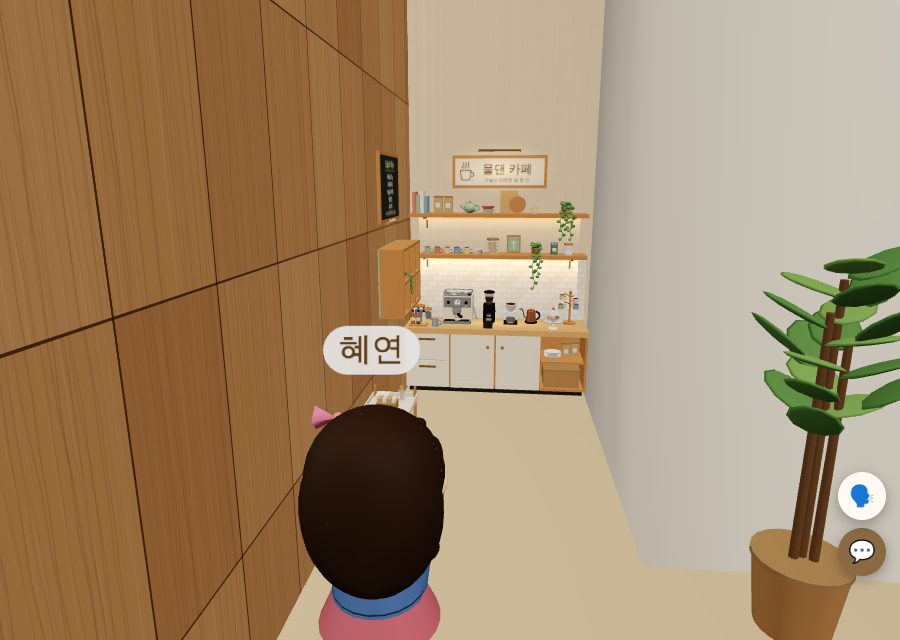
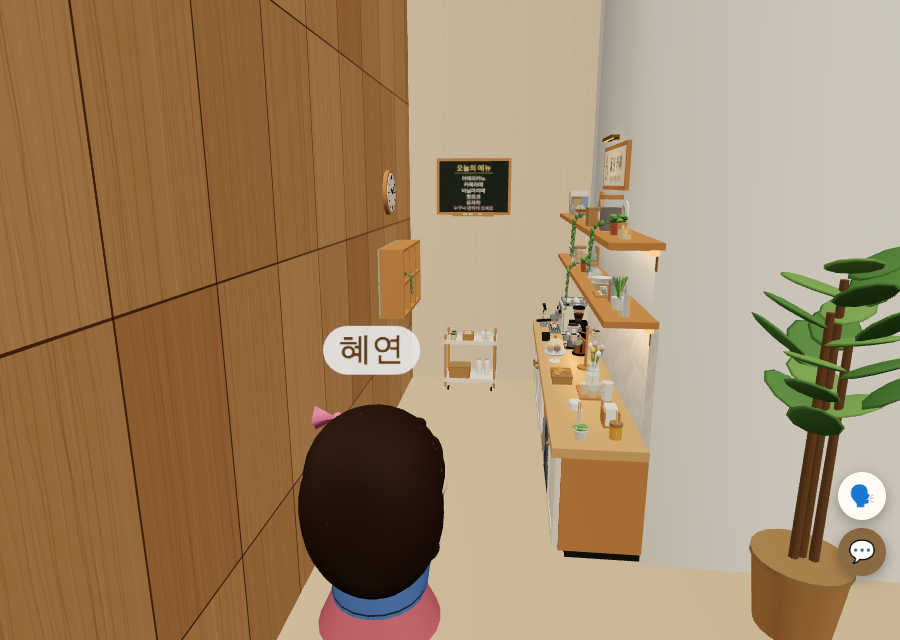
홈카페를 구석 북쪽 벽에서 오른쪽 하얀 벽(돌기둥 서쪽 면 2.2m)으로 옮겨 채움: 냉장고·셀프 바·선반 소품 더함, 기둥 옆 틈 막음, 메뉴판·카트는 북쪽 벽 끝, 서쪽 벽에 벽시계
Claude-Session: https://claude.ai/code/session_01Vz1QJf3UdmpjXu7m5EnhFF

Changed region(s): [[0.4044, 0.0, 0.7467, 0.875]]

diff --git a/index.html b/index.html
@@ -2172,14 +2172,17 @@
         [-0.35, 0.35].forEach((dz) => { groupChair(-1.25 - 0.44, -13.0 + dz, +1, f4, F4_Y); groupChair(-1.25 + 0.44, -13.0 + dz, -1, f4, F4_Y); });   // 식탁 가장자리(0.3)에서 0.14 띄움
         groupDecor(-1.25, -13.0, null, f4, F4_Y);
         k.sign('그룹실', -1.4, F4_IN_S + 0.06, 0, 2.4);
-        // ---- 홈카페 구석 (사용자 요청: 빈 구석을 따뜻하게, 홈카페장·커피 머신·컵으로 자세히) ----
+        // ---- 홈카페 (사용자 요청: 빈 곳을 따뜻하게, 홈카페장·커피 머신·컵으로 자세히 → "구석 말고 오른쪽 하얀 벽(②)을 채워서") ----
         // 자리: 서쪽 원목 벽(x -2.35) · 북쪽 벽(z -17.32) · 북동 돌기둥 서쪽 면(x -1.04) 사이 구석 (남쪽 끝 z -15.1)
-        // 북쪽 벽: 크림색 문짝 + 원목 상판 홈카페장, 흰 타일 벽, 원목 선반 2단, 선반 아래 따뜻한 조명줄, '물댄 카페' 나무 간판
-        //   상판 위: 원두 병 · 시럽 병 · 우유 피처 · 에스프레소 머신 · 원두 그라인더 · 드립(저울·서버·드리퍼) · 구리 주전자 · 유리 돔 머핀 · 머그 나무
-        // 서쪽 벽: 칠판 메뉴판 + 작은 컵 진열장, 아래 2단 카트 / 기둥 남쪽 창가: 큰 화분
+        // 돌기둥 서쪽 면(②, 길이 2.2m): 크림색 서랍·문 + 열린 칸 + 유리문 작은 냉장고, 원목 상판, 흰 타일 벽, 원목 선반 2단, 조명줄, '물댄 카페' 간판
+        //   상판 위(북→남): 원두 병 · 시럽 병 · 우유 피처 · 에스프레소 머신 · 그라인더 · 핸드드립 · 구리 주전자 · 유리 돔 머핀 · 머그 나무
+        //                  · 셀프 바(꽃병 · 빵 바구니 · 물병과 유리컵 · 테이크아웃 컵 · 냅킨 · 꿀단지 · 다육 화분)
+        // 북쪽 벽 끝: 칠판 메뉴판 + 2단 카트 / 서쪽 벽: 둥근 벽시계 + 작은 컵 진열장 / 기둥 남쪽 창가: 큰 화분
+        // 카페장은 '가상 자리'(북쪽 벽에 붙였을 때: 왼쪽 끝 x0, 뒤 z ZN)로 적고, 통째로 90° 돌려 ②번 벽에 붙임 (RW)
+        //   가상 +x(오른쪽) → 실제 +z(남쪽), 가상 +z(앞) → 실제 -x(서쪽). 실제 북쪽 끝 z -17.315 ~ 남쪽 끝 -15.105, 뒤는 기둥 면에서 1.2cm 띄움(타일이 기둥 면에 묻히지 않게)
         // 작은 조각은 재질별로 합쳐 한 덩어리(가볍게), 걷기는 보이지 않는 상자로만 막음
         {
-          const CB = new Map(), cput = (geo, m, x, y, z) => { geo.translate(x, F4_Y + y, z); if (!CB.has(m)) CB.set(m, []); CB.get(m).push(geo); };
+          let R = null; const CB = new Map(), cput = (geo, m, x, y, z) => { geo.translate(x, F4_Y + y, z); if (R) geo.applyMatrix4(R); if (!CB.has(m)) CB.set(m, []); CB.get(m).push(geo); };
           const cb = (w, h, d, x, y0, z, m, ry) => { const g = new THREE.BoxGeometry(w, h, d); if (ry) g.rotateY(ry); cput(g, m, x, y0 + h / 2, z); };
           const cy = (rt, rb, h, x, y0, z, m, seg) => cput(new THREE.CylinderGeometry(rt, rb, h, seg || 16), m, x, y0 + h / 2, z);
           const csp = (r, x, y, z, m, sx, sy, sz) => cput(new THREE.SphereGeometry(r, 12, 9).scale(sx || 1, sy || 1, sz || 1), m, x, y, z);
@@ -2192,28 +2195,51 @@
           const lit = new THREE.MeshBasicMaterial({ color: 0xffc56b, toneMapped: false });
           const hidden = new THREE.MeshBasicMaterial({ colorWrite: false, depthWrite: false });
           const block = (w, d, h, x, z) => { const m = k.box(w, h, d, x, 0, z, hidden); m.castShadow = m.receiveShadow = false; m.userData.noCamBlock = true; };   // 걷기만 막는 보이지 않는 상자
-          const XW = -2.35, XE = -1.04, ZN = -17.32, x0 = XW + 0.005, x1 = XE - 0.005, W = x1 - x0, xc = (x0 + x1) / 2, D = 0.36, T = 0.5, sw = W / 4;
+          const XW = -2.35, XE = -1.04, ZN = -17.32, x0 = XW + 0.005, W = 2.21, x1 = x0 + W, xc = (x0 + x1) / 2, D = 0.36, T = 0.5, sw = W / 6;
+          const RW = new THREE.Matrix4().makeTranslation(XE - 0.012, 0, ZN + 0.005).multiply(new THREE.Matrix4().makeRotationY(-Math.PI / 2)).multiply(new THREE.Matrix4().makeTranslation(-x0, 0, -ZN));
+          const cg = new THREE.Group(); cg.matrixAutoUpdate = false; cg.matrix.copy(RW); f4.add(cg);   // 판·빛처럼 따로 된 것은 이 묶음에 가상 자리로 넣으면 같이 돌아감
           const mug = (x, y, z, m, hy) => { cy(0.022, 0.02, 0.045, x, y, z, m); cy(0.0185, 0.0185, 0.002, x, y + 0.045, z, inside); ring(0.012, 0.004, x + (hy ? 0 : 0.027), y + 0.023, z + (hy ? 0.027 : 0), m, hy ? Math.PI / 2 : 0); };
-          // 1) 아래장: 걸레받이 · 몸통 · 서랍 2 · 문 2(테두리 있는 크림색 문 + 놋쇠 손잡이) · 오른쪽 열린 칸(바구니·접시·원두 봉지)
-          block(W, D + 0.02, T, xc, ZN + (D + 0.02) / 2);
+          // 1) 아래장 6칸(북→남): 서랍 2 · 문 · 문 · 열린 칸(바구니·접시·원두 봉지) · 유리문 냉장고 · 문. 테두리 있는 크림색 문 + 놋쇠 손잡이
+          block(D + 0.03, W, T, XE - (D + 0.03) / 2, ZN + 0.005 + W / 2);
+          k.box(0.02, 3.15, 0.22, XE + 0.01, 0, -17.21, k.M(0xe6e3db, 0.86));   // 돌기둥 북쪽 끝과 북쪽 벽 사이 틈(22cm)을 같은 색 벽으로 막음
+          R = RW;
           cb(W - 0.04, 0.05, D - 0.06, xc, 0, ZN + (D - 0.06) / 2, dark);
-          cb(3 * sw, T - 0.09, 0.33, x0 + 1.5 * sw, 0.05, ZN + 0.165, oak);
+          cb(3 * sw, T - 0.09, 0.33, x0 + 1.5 * sw, 0.05, ZN + 0.165, oak); cb(sw, T - 0.09, 0.33, x0 + 5.5 * sw, 0.05, ZN + 0.165, oak);
           const zD = ZN + 0.339;
           [0, 1].forEach((j) => { cb(sw - 0.012, 0.197, 0.018, x0 + 0.5 * sw, 0.055 + j * 0.205, zD, cream); cb(0.12, 0.012, 0.014, x0 + 0.5 * sw, 0.055 + j * 0.205 + 0.15, zD + 0.015, brass); });
-          [1, 2].forEach((i) => {
+          [[1, 1], [2, -1], [5, -1]].forEach(([i, ks]) => {
             const xs = x0 + (i + 0.5) * sw, dw = sw - 0.012;
             cb(dw, 0.402, 0.018, xs, 0.055, zD, cream);
             cb(dw, 0.04, 0.006, xs, 0.055, zD + 0.012, cream); cb(dw, 0.04, 0.006, xs, 0.417, zD + 0.012, cream);
             [-1, 1].forEach((sd) => cb(0.04, 0.402, 0.006, xs + sd * (dw / 2 - 0.02), 0.055, zD + 0.012, cream));
-            csp(0.011, xs + (i === 1 ? 1 : -1) * (dw / 2 - 0.045), T - 0.13, zD + 0.024, brass);
+            csp(0.011, xs + ks * (dw / 2 - 0.045), T - 0.13, zD + 0.024, brass);
           });
           {
             const xs = x0 + 3.5 * sw;
-            cb(sw, T - 0.09, 0.015, xs, 0.05, ZN + 0.0075, oak); cb(0.018, T - 0.09, 0.345, x1 - 0.009, 0.05, ZN + 0.1725, oak);
+            cb(sw, T - 0.09, 0.015, xs, 0.05, ZN + 0.0075, oak); cb(0.018, T - 0.09, 0.345, x0 + 4 * sw - 0.009, 0.05, ZN + 0.1725, oak);
             cb(sw, 0.02, 0.345, xs, 0.05, ZN + 0.1725, oak); cb(sw - 0.018, 0.016, 0.33, xs - 0.009, 0.25, ZN + 0.165, oak);
             cb(sw - 0.07, 0.12, 0.26, xs - 0.01, 0.07, ZN + 0.19, basket); cb(sw - 0.066, 0.014, 0.264, xs - 0.01, 0.19, ZN + 0.19, kraft2);
             for (let i = 0; i < 5; i++) cy(0.06, 0.05, 0.007, xs - 0.07, 0.266 + i * 0.008, ZN + 0.19, white, 20);
             [0.035, 0.1].forEach((dx, i) => { cb(0.055, 0.1, 0.04, xs + dx - 0.01, 0.266, ZN + 0.2 - i * 0.03, kraft); cb(0.057, 0.012, 0.042, xs + dx - 0.01, 0.366, ZN + 0.2 - i * 0.03, kraft2); cb(0.03, 0.03, 0.002, xs + dx - 0.01, 0.3, ZN + 0.2 - i * 0.03 + 0.021, paper); });
+          }
+          {
+            // 작은 냉장고: 흰 몸통, 안쪽 밝은 등, 철망 선반 2단(우유병 · 주스 · 콜드브루 · 요거트), 회색 틀 유리문 + 손잡이
+            const xs = x0 + 4.5 * sw, fw = sw - 0.004, wh = cc(0xeeebe4, 0.35), y0 = 0.05, fh = T - 0.09, fz = ZN + 0.339;
+            const inLit = new THREE.MeshBasicMaterial({ color: 0xe8f1f6, toneMapped: false }), frame = cc(0x55595e, 0.4, 0.3), milk = cc(0xfbfbf6, 0.25), juice = cc(0xf2a23a, 0.15, 0, 0.85);
+            cb(fw, fh, 0.012, xs, y0, ZN + 0.006, wh); cb(fw - 0.03, fh - 0.03, 0.004, xs, y0 + 0.015, ZN + 0.014, inLit);
+            [-1, 1].forEach((sd) => cb(0.015, fh, 0.33, xs + sd * (fw / 2 - 0.0075), y0, ZN + 0.165, wh));
+            cb(fw, 0.015, 0.33, xs, y0, ZN + 0.165, wh); cb(fw, 0.015, 0.33, xs, y0 + fh - 0.015, ZN + 0.165, wh);
+            [0.2, 0.33].forEach((y) => { cb(fw - 0.03, 0.004, 0.29, xs, y, ZN + 0.16, steel); for (let i = 0; i < 6; i++) cb(0.003, 0.006, 0.29, xs - 0.13 + i * 0.052, y - 0.002, ZN + 0.16, steel); });
+            [-0.09, -0.04, 0.01].forEach((dx) => { cy(0.022, 0.022, 0.09, xs + dx, y0 + 0.015, ZN + 0.2, milk); cy(0.012, 0.02, 0.025, xs + dx, y0 + 0.105, ZN + 0.2, milk); cy(0.013, 0.013, 0.01, xs + dx, y0 + 0.13, ZN + 0.2, sage); });
+            cb(0.06, 0.1, 0.06, xs + 0.09, y0 + 0.015, ZN + 0.2, cc(0xf7f0de, 0.6)); cb(0.062, 0.03, 0.062, xs + 0.09, y0 + 0.06, ZN + 0.2, dusty);
+            [-0.1, -0.055].forEach((dx) => { cy(0.018, 0.018, 0.09, xs + dx, 0.204, ZN + 0.19, juice); cy(0.009, 0.015, 0.02, xs + dx, 0.294, ZN + 0.19, juice); cy(0.01, 0.01, 0.01, xs + dx, 0.314, ZN + 0.19, clay); });
+            cy(0.03, 0.03, 0.1, xs + 0.01, 0.204, ZN + 0.2, glass); cy(0.028, 0.028, 0.08, xs + 0.01, 0.206, ZN + 0.2, coffee); cy(0.031, 0.031, 0.012, xs + 0.01, 0.304, ZN + 0.2, black);
+            [0.07, 0.11].forEach((dx, i) => { cy(0.02, 0.017, 0.04, xs + dx, 0.204, ZN + 0.21, white); cy(0.02, 0.02, 0.003, xs + dx, 0.244, ZN + 0.21, i ? blush : sand); });
+            [-0.08, -0.03, 0.02, 0.07].forEach((dx, i) => cy(0.016, 0.016, 0.05, xs + dx, 0.334, ZN + 0.18, [clay, sage, sand, dusty][i]));
+            cb(fw, 0.03, 0.018, xs, y0, fz, frame); cb(fw, 0.03, 0.018, xs, y0 + fh - 0.03, fz, frame);
+            [-1, 1].forEach((sd) => cb(0.03, fh, 0.018, xs + sd * (fw / 2 - 0.015), y0, fz, frame));
+            cb(fw - 0.06, fh - 0.06, 0.006, xs, y0 + 0.03, fz, cc(0xd8ecf2, 0.05, 0, 0.22));
+            cb(0.012, 0.18, 0.014, xs - fw / 2 + 0.03, y0 + 0.1, fz + 0.016, steel); cb(0.03, 0.01, 0.002, xs + 0.08, y0 + fh - 0.02, fz + 0.01, lit);
           }
           cb(W + 0.01, 0.04, D + 0.01, xc, T - 0.04, ZN + (D + 0.01) / 2, oakL);
           // 2) 타일 벽 (크림색 벽돌 타일, 그림을 코드로 그림)
@@ -2223,17 +2249,17 @@
             for (let r = 0; r < 4; r++) for (let i = -1; i < 5; i++) { tg.fillStyle = ['#f7f2e8', '#f2ebdf', '#faf6ee'][(r + i + 3) % 3]; tg.fillRect(i * 32 + (r % 2 ? 16 : 0) + 1, r * 16 + 1, 30, 14); }
             const tt = new THREE.CanvasTexture(tc); tt.wrapS = tt.wrapT = THREE.RepeatWrapping; tt.repeat.set(W / 0.32, 0.47 / 0.16); if ('colorSpace' in tt) tt.colorSpace = THREE.SRGBColorSpace;
             const tile = noHit(new THREE.Mesh(new THREE.PlaneGeometry(W, 0.47), new THREE.MeshStandardMaterial({ map: tt, roughness: 0.25 })));
-            tile.position.set(xc, F4_Y + T + 0.235, ZN + 0.004); tile.receiveShadow = true; f4.add(tile);
+            tile.position.set(xc, F4_Y + T + 0.235, ZN + 0.004); tile.receiveShadow = true; cg.add(tile);
           }
           // 3) 원목 선반 2단 + 놋쇠 받침, 선반 아래 숨은 조명(타일 벽에 따뜻한 빛), 상판 위 빛 번짐
           const S1 = 1.005, S2 = 1.295;
           [S1, S2].forEach((y) => {
             cb(W - 0.04, 0.025, 0.2, xc, y - 0.025, ZN + 0.1, oak);
-            [x0 + 0.12, x1 - 0.12].forEach((bx) => { cb(0.012, 0.09, 0.006, bx, y - 0.115, ZN + 0.003, brass); cb(0.012, 0.012, 0.17, bx, y - 0.037, ZN + 0.09, brass); });
+            [x0 + 0.12, xc, x1 - 0.12].forEach((bx) => { cb(0.012, 0.09, 0.006, bx, y - 0.115, ZN + 0.003, brass); cb(0.012, 0.012, 0.17, bx, y - 0.037, ZN + 0.09, brass); });
           });
-          cove(f4, x0 + 0.06, ZN + 0.02, x1 - 0.06, ZN + 0.02, F4_Y + S1 - 0.04, 0xffcf96, -0.45, 0.3, 0.9);
-          cove(f4, x0 + 0.06, ZN + 0.02, x1 - 0.06, ZN + 0.02, F4_Y + S2 - 0.04, 0xffcf96, -0.22, 0.2, 0.7);
-          glowSpot(f4, xc, F4_Y + T + 0.003, ZN + 0.18, W - 0.1, 0.34, 0xffd9a8, [-Math.PI / 2, 0, 0], 0.18, 0.75);
+          cove(cg, x0 + 0.06, ZN + 0.02, x1 - 0.06, ZN + 0.02, F4_Y + S1 - 0.04, 0xffcf96, -0.45, 0.3, 0.9);
+          cove(cg, x0 + 0.06, ZN + 0.02, x1 - 0.06, ZN + 0.02, F4_Y + S2 - 0.04, 0xffcf96, -0.22, 0.2, 0.7);
+          glowSpot(cg, xc, F4_Y + T + 0.003, ZN + 0.18, W - 0.1, 0.34, 0xffd9a8, [-Math.PI / 2, 0, 0], 0.18, 0.75);
           // 4) '물댄 카페' 나무 간판 + 위 작은 그림 등
           {
             const sc = document.createElement('canvas'); sc.width = 600; sc.height = 176; const sg = sc.getContext('2d');
@@ -2248,9 +2274,9 @@
             const st = new THREE.CanvasTexture(sc); if ('colorSpace' in st) st.colorSpace = THREE.SRGBColorSpace; st.anisotropy = 4;
             cb(0.68, 0.23, 0.02, xc, 1.47, ZN + 0.01, oak);
             const sign = noHit(new THREE.Mesh(new THREE.PlaneGeometry(0.64, 0.188), new THREE.MeshStandardMaterial({ map: st, roughness: 0.8 })));
-            sign.position.set(xc, F4_Y + 1.585, ZN + 0.0205); f4.add(sign);
+            sign.position.set(xc, F4_Y + 1.585, ZN + 0.0205); cg.add(sign);
             cb(0.3, 0.014, 0.04, xc, 1.725, ZN + 0.045, brass); cb(0.012, 0.012, 0.03, xc, 1.725, ZN + 0.015, brass); cb(0.28, 0.004, 0.012, xc, 1.721, ZN + 0.055, lit);
-            glowSpot(f4, xc, F4_Y + 1.6, ZN + 0.024, 0.85, 0.42, 0xffd9a0, null, 0.18, 0.55);
+            glowSpot(cg, xc, F4_Y + 1.6, ZN + 0.024, 0.85, 0.42, 0xffd9a0, null, 0.18, 0.55);
           }
           // 5) 상판 위 왼쪽: 원두 유리병 3 · 시럽 병 쟁반 · 우유 피처
           [[-2.29, -17.25, 0.09], [-2.215, -17.25, 0.07], [-2.255, -17.165, 0.11]].forEach(([x, z, h]) => {
@@ -2328,6 +2354,36 @@
               const hg = new THREE.TorusGeometry(0.011, 0.0035, 6, 12); hg.rotateY(-a); cput(hg, m, MX + ca * 0.052, T + h - 0.012, MZ + sa * 0.052);
             });
           }
+          // 9-2) 상판 남쪽(방 쪽) 셀프 바: 꽃병 · 빵 바구니(크루아상 · 모닝빵) · 물병과 유리컵 쟁반 · 테이크아웃 컵과 뚜껑 · 냅킨 꽂이 · 젓는 막대 · 꿀단지 · 다육 화분
+          {
+            const yel = cc(0xf6d55c, 0.6), stem = cc(0x6f8f4e, 0.8), water = cc(0xcfe8ef, 0.1, 0, 0.5), VX = -0.99, VZ = -17.22;
+            cy(0.03, 0.025, 0.09, VX, T, VZ, glass); cy(0.027, 0.023, 0.05, VX, T + 0.003, VZ, water);
+            [[0, 0, 0.17, blush], [0.022, 0.01, 0.15, yel], [-0.02, 0.012, 0.155, white], [0.01, -0.022, 0.16, blush], [-0.012, -0.018, 0.14, yel], [0.025, -0.012, 0.13, white]].forEach(([dx, dz, h, m]) => {
+              const a1 = dx * 10, a2 = dz * 10, g = new THREE.CylinderGeometry(0.002, 0.002, h, 4); g.translate(0, h / 2, 0); g.rotateZ(-a1); g.rotateX(a2);
+              cput(g, stem, VX, T + 0.02, VZ);
+              csp(0.014, VX + h * Math.sin(a1), T + 0.02 + h * Math.cos(a1) * Math.cos(a2), VZ + h * Math.cos(a1) * Math.sin(a2), m, 1, 1.25, 1);
+            });
+            const bx = -0.95, bz = -17.05, bread = cc(0xd9a05b, 0.7), bread2 = cc(0xc4843f, 0.7);
+            cb(0.15, 0.035, 0.1, bx, T, bz, basket); cb(0.154, 0.008, 0.104, bx, T + 0.035, bz, kraft2); cb(0.13, 0.004, 0.08, bx, T + 0.033, bz, cc(0xf3ece0, 0.9));
+            [[-0.035, -0.01, 0.4], [0.03, 0.012, -0.5]].forEach(([dx, dz, r]) => { const g = new THREE.TorusGeometry(0.022, 0.012, 8, 12, Math.PI * 1.25); g.rotateZ(-Math.PI * 0.125); g.rotateX(Math.PI / 2); g.scale(1, 0.75, 1); g.rotateY(r); cput(g, bread, bx + dx, T + 0.047, bz + dz); });
+            csp(0.022, bx, T + 0.046, bz + 0.03, bread2, 1.2, 0.75, 1); csp(0.02, bx - 0.005, T + 0.044, bz - 0.032, bread2, 1.2, 0.7, 1);
+            const wx = -0.76, wz = -17.18, lemon = cc(0xf3dc5a, 0.5);
+            cb(0.19, 0.01, 0.13, wx, T, wz, oak);
+            cy(0.033, 0.036, 0.1, wx - 0.045, T + 0.01, wz - 0.01, glass); cy(0.031, 0.034, 0.075, wx - 0.045, T + 0.012, wz - 0.01, water); cy(0.016, 0.03, 0.035, wx - 0.045, T + 0.11, wz - 0.01, glass);
+            [0, 1].forEach((i) => cput(new THREE.CylinderGeometry(0.018, 0.018, 0.004, 14).rotateX(Math.PI / 2 - 0.3 * i), lemon, wx - 0.05 + i * 0.008, T + 0.035 + i * 0.025, wz - 0.01));
+            [[0.035, -0.035], [0.065, 0.005], [0.03, 0.04]].forEach(([dx, dz]) => cy(0.018, 0.021, 0.055, wx + dx, T + 0.01, wz + dz, glass));
+            const ux = -0.56, cup = cc(0xf7f3ea, 0.5);
+            cy(0.027, 0.02, 0.13, ux, T, -17.22, cup); cy(0.0235, 0.0212, 0.035, ux, T + 0.012, -17.22, kraft);
+            for (let i = 1; i < 7; i++) { const y = 0.13 - i * 0.015; cy(0.0205 + 0.007 * y / 0.13, 0.0205 + 0.007 * y / 0.13, 0.003, ux, T + y, -17.22, cc(0xe4dccb, 0.6)); }
+            cy(0.029, 0.029, 0.03, ux, T, -17.08, white); cy(0.024, 0.029, 0.008, ux, T + 0.03, -17.08, white);
+            const nx = -0.39, nz = -17.21;
+            cb(0.09, 0.008, 0.07, nx, T, nz, oak); [-1, 1].forEach((sd) => cb(0.09, 0.06, 0.008, nx, T + 0.008, nz + sd * 0.03, oak)); cb(0.08, 0.075, 0.05, nx, T + 0.008, nz, cc(0xfdfbf6, 0.9));
+            cy(0.016, 0.016, 0.06, nx, T, -17.08, glass); for (let i = 0; i < 6; i++) cb(0.004, 0.09, 0.003, nx + ((i % 3) - 1) * 0.006, T + 0.005, -17.08 + ((i % 2) - 0.5) * 0.008, oakL);
+            const hx = -0.25;
+            cy(0.025, 0.025, 0.055, hx, T, -17.21, cc(0xe0a030, 0.15, 0, 0.8)); cy(0.027, 0.027, 0.012, hx, T + 0.055, -17.21, kraft2); cput(new THREE.CylinderGeometry(0.003, 0.003, 0.1, 6).rotateZ(0.3), oakL, hx + 0.012, T + 0.07, -17.21);
+            cy(0.03, 0.024, 0.04, -0.23, T, -17.07, cc(0xece6da, 0.6));
+            for (let i = 0; i < 9; i++) { const a = i * 2.4, r = i < 3 ? 0.006 : 0.016; csp(0.012, -0.23 + Math.cos(a) * r, T + 0.048 + (i < 3 ? 0.008 : 0), -17.07 + Math.sin(a) * r, i % 2 ? sage : leaf2, 1, 0.6, 1.4); }
+          }
           // 10) 선반 1: 머그 여섯 · 받침 접시 · 쿠키 유리병 · 작은 액자(십자가) · 늘어지는 화분 · 차 통 · 각설탕 병
           [white, sage, clay, blush, dusty, sand].forEach((m, i) => mug(-2.28 + i * 0.072, S1, -17.21, m));
           for (let i = 0; i < 5; i++) cy(0.035, 0.03, 0.006, -1.83, S1 + i * 0.007, -17.2, white, 20);
@@ -2356,6 +2412,15 @@
           cy(0.025, 0.025, 0.07, -1.29, S1, -17.22, cc(0x7f9a86, 0.35, 0.3)); cy(0.026, 0.026, 0.016, -1.29, S1 + 0.07, -17.22, steel); cb(0.03, 0.025, 0.002, -1.29, S1 + 0.025, -17.194, paper);
           cy(0.03, 0.03, 0.07, -1.19, S1, -17.21, glass); cy(0.032, 0.032, 0.012, -1.19, S1 + 0.07, -17.21, oak);
           for (let i = 0; i < 6; i++) cb(0.014, 0.014, 0.014, -1.19 + ((i % 3) - 1) * 0.016, S1 + 0.002 + Math.floor(i / 3) * 0.015, -17.21 + ((i * 7) % 3 - 1) * 0.012, white);
+          // 10-2) 선반 1 남쪽: 유리컵 넷 · 그릇 · 찻잔 쟁반 · 차 통 둘 · 작은 화분 · 빨대 병
+          [-1.09, -1.04, -0.99, -0.94].forEach((x) => cy(0.02, 0.018, 0.07, x, S1, -17.21, glass));
+          cy(0.05, 0.03, 0.035, -0.83, S1, -17.21, sand); cy(0.05, 0.03, 0.035, -0.83, S1 + 0.025, -17.21, white);
+          cb(0.13, 0.008, 0.09, -0.68, S1, -17.2, oak);
+          [-0.71, -0.65].forEach((x, i) => { const m = i ? sage : blush; cy(0.026, 0.022, 0.004, x, S1 + 0.008, -17.2, white); cy(0.018, 0.014, 0.024, x, S1 + 0.012, -17.2, m); ring(0.008, 0.003, x + 0.02, S1 + 0.025, -17.2, m); });
+          [[-0.55, clay], [-0.495, sage]].forEach(([x, m]) => { cy(0.024, 0.024, 0.08, x, S1, -17.22, m); cy(0.025, 0.025, 0.012, x, S1 + 0.08, -17.22, steel); });
+          cy(0.03, 0.025, 0.05, -0.38, S1, -17.21, cc(0xece6da, 0.6));
+          for (let i = 0; i < 7; i++) { const a = i * 0.9, g = new THREE.SphereGeometry(1, 8, 6); g.scale(0.012, 0.05, 0.004); g.rotateZ(Math.cos(a) * 0.4); g.rotateX(Math.sin(a) * 0.4); cput(g, i % 2 ? leaf : leaf2, -0.38 + Math.cos(a) * 0.012, S1 + 0.09, -17.21 + Math.sin(a) * 0.012); }
+          cy(0.022, 0.022, 0.09, -0.25, S1, -17.21, glass); for (let i = 0; i < 5; i++) cput(new THREE.CylinderGeometry(0.003, 0.003, 0.12, 6).rotateZ((i - 2) * 0.08), [blush, sage, white, sand, dusty][i], -0.25 + (i - 2) * 0.004, S1 + 0.06, -17.21);
           // 11) 선반 2: 요리책 · 원두 봉지 · 찻주전자 · 그릇 · 도마 · 유리 촛불 · 늘어지는 화분
           [[-2.3, 0.15, clay], [-2.272, 0.13, sage], [-2.244, 0.16, cream], [-2.216, 0.12, dusty]].forEach(([x, h, m]) => cb(0.024, h, 0.12, x, S2, -17.24, m));
           [-2.13, -2.055].forEach((x, i) => { cb(0.06, 0.11, 0.04, x, S2, -17.22 + i * 0.02, kraft); cb(0.062, 0.012, 0.042, x, S2 + 0.11, -17.22 + i * 0.02, kraft2); cb(0.034, 0.034, 0.002, x, S2 + 0.04, -17.199 + i * 0.02, paper); });
@@ -2368,7 +2433,15 @@
           cb(0.13, 0.16, 0.012, -1.62, S2, -17.305, oakL); cput(new THREE.CylinderGeometry(0.06, 0.06, 0.012, 22).rotateX(Math.PI / 2), oak, -1.56, S2 + 0.06, -17.29);
           cy(0.022, 0.022, 0.05, -1.44, S2, -17.2, cc(0xf2c48a, 0.1, 0, 0.55)); cy(0.018, 0.018, 0.02, -1.44, S2 + 0.004, -17.2, cream); csp(0.006, -1.44, S2 + 0.034, -17.2, lit, 0.8, 1.6, 0.8);
           trail(-1.22, S2, -17.21, 3, 0.22);
-          // 12) 서쪽 원목 벽: 칠판 메뉴판 · 작은 컵 진열장(2단 3칸) · 아래 2단 카트
+          // 11-2) 선반 2 남쪽: 바구니 · 기대 세운 접시 셋 · 큰 원두 유리병 · 늘어지는 화분 · 유리 촛불 둘
+          cb(0.12, 0.08, 0.14, -1.03, S2, -17.22, basket); cb(0.124, 0.01, 0.144, -1.03, S2 + 0.08, -17.22, kraft2);
+          [[0.065, -17.305, white], [0.055, -17.296, sage], [0.045, -17.287, clay]].forEach(([r, z, m]) => cput(new THREE.CylinderGeometry(r, r, 0.006, 24).rotateX(Math.PI / 2), m, -0.86, S2 + r, z));
+          cy(0.05, 0.05, 0.14, -0.7, S2, -17.21, glass); cy(0.046, 0.046, 0.1, -0.7, S2 + 0.003, -17.21, bean); cy(0.053, 0.053, 0.018, -0.7, S2 + 0.14, -17.21, oak); cb(0.05, 0.035, 0.002, -0.7, S2 + 0.05, -17.159, paper);
+          trail(-0.5, S2, -17.21, 2, 0.2);
+          [[-0.33, 0.06], [-0.27, 0.045]].forEach(([x, h]) => { cy(0.022, 0.022, h, x, S2, -17.2, cc(0xf2c48a, 0.1, 0, 0.55)); cy(0.018, 0.018, h - 0.03, x, S2 + 0.004, -17.2, cream); csp(0.006, x, S2 + h - 0.016, -17.2, lit, 0.8, 1.6, 0.8); });
+          R = null;
+          // 12) 북쪽 벽 끝(카페장 앞 통로 끝): 칠판 메뉴판 + 아래 2단 카트 / 서쪽 원목 벽: 둥근 벽시계 · 작은 컵 진열장(2단 3칸)
+          const MC = -1.88;
           {
             const mc = document.createElement('canvas'); mc.width = 360; mc.height = 260; const mg = mc.getContext('2d');
             mg.fillStyle = '#2f3b33'; mg.fillRect(0, 0, 360, 260);
@@ -2379,11 +2452,20 @@
             ['아메리카노', '카페라떼', '바닐라라떼', '핫초코', '유자차'].forEach((t, i) => mg.fillText(t, 180, 88 + i * 31));
             mg.fillStyle = '#f2c9c4'; mg.font = 'bold 22px sans-serif'; mg.fillText('누구나 편하게 드세요', 180, 240);
             const mt = new THREE.CanvasTexture(mc); if ('colorSpace' in mt) mt.colorSpace = THREE.SRGBColorSpace; mt.anisotropy = 4;
-            cb(0.02, 0.4, 0.54, XW + 0.01, 1.28, -16.5, oak);
+            cb(0.54, 0.4, 0.02, MC, 1.28, ZN + 0.01, oak);
             const menu = noHit(new THREE.Mesh(new THREE.PlaneGeometry(0.5, 0.36), new THREE.MeshStandardMaterial({ map: mt, roughness: 0.95 })));
-            menu.rotation.y = Math.PI / 2; menu.position.set(XW + 0.0205, F4_Y + 1.48, -16.5); f4.add(menu);
-            cb(0.02, 0.01, 0.3, XW + 0.03, 1.27, -16.5, oak);
-            [[-16.56, 0xf4f1ea], [-16.52, 0xf6e3a1], [-16.45, 0xf2c9c4]].forEach(([z, c]) => cb(0.012, 0.012, 0.028, XW + 0.03, 1.28, z, cc(c, 0.9)));
+            menu.position.set(MC, F4_Y + 1.48, ZN + 0.0205); f4.add(menu);
+            cb(0.3, 0.01, 0.02, MC, 1.27, ZN + 0.03, oak);
+            [[-0.06, 0xf4f1ea], [-0.02, 0xf6e3a1], [0.05, 0xf2c9c4]].forEach(([dx, c]) => cb(0.028, 0.012, 0.012, MC + dx, 1.28, ZN + 0.03, cc(c, 0.9)));
+          }
+          {
+            // 둥근 벽시계 (원목 테두리 · 크림색 판 · 눈금 12 · 10시 10분 바늘)
+            const cyy = 1.45, czz = -16.5;
+            cput(new THREE.CylinderGeometry(0.13, 0.13, 0.025, 32).rotateZ(Math.PI / 2), oak, XW + 0.0125, cyy, czz);
+            cput(new THREE.CylinderGeometry(0.115, 0.115, 0.004, 32).rotateZ(Math.PI / 2), cream, XW + 0.027, cyy, czz);
+            for (let i = 0; i < 12; i++) { const a = i * Math.PI / 6, len = i % 3 ? 0.012 : 0.022; cput(new THREE.BoxGeometry(0.004, len, 0.006).rotateX(-a), dark, XW + 0.03, cyy + Math.cos(a) * (0.1 - len / 2), czz - Math.sin(a) * (0.1 - len / 2)); }
+            [[-Math.PI / 3, 0.055, 0.009], [Math.PI / 3, 0.08, 0.006]].forEach(([a, len, t]) => cput(new THREE.BoxGeometry(0.004, len, t).translate(0, len / 2 - 0.01, 0).rotateX(-a), dark, XW + 0.033, cyy, czz));
+            csp(0.008, XW + 0.036, cyy, czz, brass);
           }
           {
             const y0 = 0.74, H = 0.4, L = 0.6, Dd = 0.15, zc = -16.5, z0 = zc - L / 2, bx = XW + Dd / 2;
@@ -2399,8 +2481,10 @@
             trail(cx2 - 0.01, hi, cz(2), 1, 0.12, 1);
           }
           {
-            const tx = XW + 0.14, tz = -15.75, w = 0.24, L = 0.38;
-            block(w + 0.02, L + 0.02, 0.44, tx, tz);
+            // 카트는 예전 자리(서쪽 벽, 가상)로 적고 90° 돌려 북쪽 벽 끝 메뉴판 아래로 (길이 방향이 동서)
+            const tx = XW + 0.14, tz = -15.75, w = 0.24, L = 0.38, CZ0 = ZN + 0.035 + w / 2;
+            block(L + 0.02, w + 0.02, 0.44, MC, CZ0);
+            R = new THREE.Matrix4().makeTranslation(MC, 0, CZ0).multiply(new THREE.Matrix4().makeRotationY(-Math.PI / 2)).multiply(new THREE.Matrix4().makeTranslation(-tx, 0, -tz));
             [[-1, -1], [-1, 1], [1, -1], [1, 1]].forEach(([a, b]) => { cy(0.008, 0.008, 0.4, tx + a * (w / 2 - 0.01), 0.03, tz + b * (L / 2 - 0.01), oak, 8); cput(new THREE.CylinderGeometry(0.018, 0.018, 0.012, 12).rotateX(Math.PI / 2), dark, tx + a * (w / 2 - 0.02), 0.018, tz + b * (L / 2 - 0.03)); });
             [0.07, 0.36].forEach((y) => { cb(w, 0.01, L, tx, y, tz, cream); cb(w, 0.03, 0.008, tx, y, tz - L / 2, cream); cb(w, 0.03, 0.008, tx, y, tz + L / 2, cream); cb(0.008, 0.03, L, tx - w / 2, y, tz, cream); cb(0.008, 0.03, L, tx + w / 2, y, tz, cream); });
             const top = 0.37;
@@ -2410,6 +2494,7 @@
             mug(tx - 0.04, top, tz + 0.13, sage, 1); mug(tx + 0.04, top, tz + 0.13, sand, 1);
             [-0.12, -0.06].forEach((dz) => { cy(0.022, 0.022, 0.1, tx - 0.05, 0.08, tz + dz, cc(0xfdfdf8, 0.15, 0, 0.9)); cy(0.012, 0.016, 0.02, tx - 0.05, 0.18, tz + dz, cc(0xfdfdf8, 0.15, 0, 0.9)); cy(0.014, 0.014, 0.01, tx - 0.05, 0.2, tz + dz, sage); });
             cb(0.13, 0.09, 0.15, tx + 0.03, 0.08, tz + 0.08, basket); cb(0.134, 0.012, 0.154, tx + 0.03, 0.17, tz + 0.08, kraft2);
+            R = null;
           }
           // 13) 기둥 남쪽 창가: 바구니 화분에 큰 잎 나무
           {

diff --git a/docs/verification/2026-11-07/REPORT.md b/docs/verification/2026-11-07/REPORT.md
@@ -1,18 +1,22 @@
-# 2026-11-07 확인 기록 — 4층 그룹실 홈카페 구석
+# 2026-11-07 확인 기록 — 4층 그룹실 홈카페
 
-요청: "4층 소그룹실 빈 공간을 따뜻한 공간으로. 홈카페장·커피 머신·컵 등으로 자세히, 사진 속 구석부터"
+요청 1: "4층 소그룹실 빈 공간을 따뜻한 공간으로. 홈카페장·커피 머신·컵 등으로 자세히, 사진 속 구석부터"
+요청 2: "구석이 아니라 우측 하얀 벽면을 채워서 카페장이 생기길" → 두 벽을 색으로 표시해 여쭤봄 → "2번 파란쪽"(돌기둥 서쪽 면)
 
 ## 만든 것 (index.html, 그룹실 403 블록)
-- 자리: 서쪽 원목 벽(x -2.35) · 북쪽 벽(z -17.32) · 북동 돌기둥 서쪽 면(x -1.04) 사이 구석 (너비 1.3m, 깊이 2.2m)
-- 북쪽 벽 홈카페장: 크림색 서랍 2·문 2(테두리, 놋쇠 손잡이) + 오른쪽 열린 칸(바구니·접시·원두 봉지), 원목 상판(윗면 0.5m)
-- 흰 벽돌 타일 벽, 원목 선반 2단(놋쇠 받침), 선반 아래 따뜻한 조명줄, '물댄 카페' 나무 간판 + 위 작은 그림 등
-- 상판 위: 원두 유리병 3 · 시럽 병 3 · 우유 피처 · 에스프레소 머신(압력계·그룹헤드·포터필터·물받이·스팀 막대·잔 데우는 판) · 원두 그라인더 · 찌꺼기 통 · 드립 저울+유리 서버+드리퍼 · 구리 주전자 · 유리 돔 머핀 · 머그 나무
-- 선반: 머그 6 · 받침 접시 · 쿠키 병 · 십자가 액자 · 늘어지는 화분 2 · 차 통 · 각설탕 병 · 요리책 · 원두 봉지 · 찻주전자 · 그릇 · 도마 · 유리 촛불
-- 서쪽 벽: 칠판 메뉴판(아메리카노·카페라떼·바닐라라떼·핫초코·유자차 / 누구나 편하게 드세요) · 작은 컵 진열장(2단 3칸) · 아래 2단 카트
-- 기둥 남쪽 창가: 바구니 화분 큰 잎 나무
-- 작은 조각은 재질별로 합침(구석 전체 약 60 덩어리, 장면 전체 3,908개 중). 걷기는 보이지 않는 상자 3개로만 막음
+- 자리: 서쪽 원목 벽(x -2.35) · 북쪽 벽(z -17.32) · 북동 돌기둥 서쪽 면(x -1.04) 사이 (너비 1.3m, 깊이 2.2m)
+- 돌기둥 서쪽 면(②, 2.2m)을 채운 홈카페장: 카페장을 가상 자리에 적고 통째로 90° 돌려 붙임(RW). 기둥 면에서 1.2cm 띄움(타일이 묻히지 않게)
+  - 아래장 6칸(북→남): 서랍 2 · 문 · 문 · 열린 칸(바구니·접시·원두 봉지) · 유리문 작은 냉장고(안쪽 등, 우유병·주스·콜드브루·요거트) · 문
+  - 원목 상판(윗면 0.5m), 흰 벽돌 타일 벽, 원목 선반 2단(놋쇠 받침 3), 선반 아래 따뜻한 조명줄, '물댄 카페' 나무 간판 + 그림 등
+  - 상판 위(북→남): 원두 유리병 3 · 시럽 병 3 · 우유 피처 · 에스프레소 머신(압력계·그룹헤드·포터필터·물받이·스팀 막대·잔 데우는 판) · 그라인더 · 찌꺼기 통 · 드립 저울+서버+드리퍼 · 구리 주전자 · 유리 돔 머핀 · 머그 나무
+    · 셀프 바: 꽃병 · 빵 바구니(크루아상·모닝빵) · 물병과 유리컵 쟁반 · 테이크아웃 컵·뚜껑 · 냅킨 꽂이 · 젓는 막대 · 꿀단지 · 다육 화분
+  - 선반: 머그 6 · 받침 접시 · 쿠키 병 · 십자가 액자 · 늘어지는 화분 3 · 차 통 · 각설탕 병 · 유리컵 4 · 그릇 · 찻잔 쟁반 · 요리책 · 원두 봉지 · 찻주전자 · 도마 · 세운 접시 · 큰 원두 병 · 유리 촛불 3
+- 돌기둥 북쪽 끝과 북쪽 벽 사이 틈(22cm, 밖으로 뚫림)을 기둥과 같은 색 벽으로 막음
+- 북쪽 벽 끝: 칠판 메뉴판(아메리카노·카페라떼·바닐라라떼·핫초코·유자차 / 누구나 편하게 드세요) + 2단 카트
+- 서쪽 원목 벽: 둥근 벽시계 + 작은 컵 진열장(2단 3칸) / 기둥 남쪽 창가: 바구니 화분 큰 잎 나무
+- 작은 조각은 재질별로 합침. 걷기는 보이지 않는 상자 3개(카페장·카트·화분)로만 막음
 
 ## 확인 (tools/walk-check/homecafe.cjs)
 - 화면 오류 없음 (낮·밤)
-- 걷기 길: 문 앞 → 구석 안쪽(-1.8, -16.6) · 구석 앞 · 기둥 앞 모두 감
-- 사진: cafe-user.png(그룹실 전체), cafe-front.png(홈카페장), cafe-machine.png(머신 가까이), cafe-west.png(메뉴판·컵장·카트), cafe-night-front.png(밤 조명)
+- 걷기 길: 문 앞 → 카페장 앞 안쪽(-1.9, -16.7) · 카페장 앞 남쪽 · 기둥 앞 모두 감
+- 사진: cafe-user.png(그룹실에서 본 모습), cafe-front.png(카페장 가운데), cafe-south.png(셀프 바·냉장고), cafe-end.png(메뉴판·카트·시계·컵장), cafe-night-user.png(밤)
